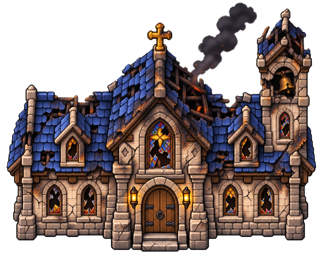
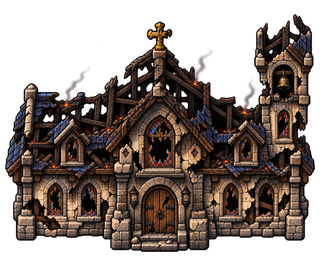
Redraw the village houses as burnt-out ruins

diff --git a/docs/art/chapter-two-ruins-v1.md b/docs/art/chapter-two-ruins-v1.md
@@ -26,8 +26,8 @@
 
 ### 最終生成指示
 
-- 家: 元絵だけを編集対象とし、赤瓦屋根の欠損、露出した焼けた梁、焦げた木組みと石、割れ窓、煙を追加。320×256キャンバス、中央入口、接地、視点、左上光源、SFC時代RPG風の精細なピクセル表現を維持。背景透過、地面・人物・文字なし。
-- 休憩所: 元絵だけを編集対象とし、青瓦屋根の崩落、焼けた梁、石壁のひびと煤、割れたステンドグラス、鐘楼の損傷、煙を追加。同じ建物と分かる輪郭、入口、接地、キャンバス、視点、左上光源を維持。背景透過。
+- 家: 元絵だけを編集対象とし、屋根の大半を焼失させて黒い大穴と交差する焦げた梁を露出。上下階の壁を大きく崩し、穴、割れた石、煤、残り火、細い煙を追加。「傷んだ家」ではなくサムネイルでも焼け落ちた廃墟と即読できる強さを指定。320×256キャンバス、中央入口、接地、視点、左上光源、SFC時代RPG風の精細なピクセル表現を維持。背景透過、地面・人物・文字なし。
+- 休憩所: 元絵だけを編集対象とし、青瓦屋根の大半を焼失させて焦げた骨組みを露出。石壁の大きな崩落穴、ほぼ全壊したステンドグラス、鐘楼上部の破損、煤、残り火、細い煙を追加。中央入口と建物の識別要素を残しつつ、焼け落ちた廃墟として即読できる強さを指定。最終キャンバスは320×256、背景透過。
 - 炎A: 64px論理タイル用の地面の炎。黄白の芯、橙赤の炎、焦げた燃料、俯瞰。中央下寄せ、背景透過。
 - 炎B: Aを編集対象とし、燃料・接地・縮尺を維持して炎の舌と火の粉だけを変更。
 - 瓦礫: 焼けた木材、赤瓦、淡色の石を低い横長の山にし、背景透過。
@@ -42,7 +42,7 @@
 
 - 組み込み `image_gen` を使用。建物と炎Bは参照編集、その他は参照画像を使った個別生成。
 - 生成結果は `sharp` で透過領域を基準に切り出し、Lanczos 3で用途の実寸へ縮小し、透明キャンバスへ配置した。
-- 建物は元絵のキャンバス実寸を維持した。教会の原画実寸はファイル名と異なり1402×1122であるため、320×256へ変更していない。
+- 家は元絵と同じ320×256を維持した。休憩所は1402×1122の参照原画から、実装側の論理表示とファイル名に合わせて320×256へ縮小した。
 
 ## 成果物
 
@@ -63,9 +63,9 @@
 | 素材 | 実寸 | alpha範囲 | 非透明領域（x0,y0-x1,y1） |
 | --- | ---: | ---: | --- |
 | 家・元絵 | 320×256 | 0-255 | 7,6-312,236 |
-| 家・廃墟 | 320×256 | 0-255 | 14,5-304,235 |
+| 家・廃墟 | 320×256 | 0-255 | 7,7-312,236 |
 | 休憩所・元絵 | 1402×1122 | 0-255 | 24,21-1389,1105 |
-| 休憩所・廃墟 | 1402×1122 | 0-255 | 26,8-1386,1104 |
+| 休憩所・廃墟 | 320×256 | 0-255 | 5,14-314,251 |
 | 炎A | 64×64 | 0-255 | 11,9-50,63 |
 | 炎B | 64×64 | 0-255 | 11,7-52,63 |
 | 瓦礫 | 64×64 | 0-255 | 2,39-61,63 |
@@ -75,12 +75,12 @@
 | 村人C | 64×64 | 0-255 | 4,42-59,63 |
 
 - 全成果物がRGBAで、完全透明値0と不透明値255の両方を持つことを確認した。
-- 家は元絵と同じ320×256で、入口は中央、接地下端は元絵y=236に対して廃墟y=235。
-- 休憩所は元絵と同じ1402×1122で、入口は中央、接地下端は元絵y=1105に対して廃墟y=1104。
+- 家は元絵と同じ320×256で、入口は中央、接地下端は元絵と廃墟の双方がy=236。
+- 休憩所の成果物は320×256で、入口は中央、接地下端はy=251。1402×1122の参照元を論理表示サイズへ縮小した状態で全身がキャンバス内にある。
 - 炎A/Bは同じ64×64、同じ中央下の燃料位置で、炎形状だけが異なることを目視確認した。
 - 村人3種は全身がキャンバス内にあり、血・傷・武器の描写がないことを目視確認した。
 - `npm run build`: PASS。既存のchunk size警告のみ。
-- `npm run check:art`: 既存10警告に加え、`church-town-ruined-320x256.png`の実寸が名前の320×256と異なるため1エラー。元絵と同じキャンバスを維持する受け入れ条件を優先し、1402×1122のままにした。検査側の例外登録は許可範囲外のため未対応。
+- `npm run check:art`: PASS。122 PNG headers、63 asset references、14 terrain sets、既存10警告、0エラー。
 - `src/`、登録、配置、ゲーム内表示、通行テストは本制作では変更・実行していない。
 
 ## 採否の理由
